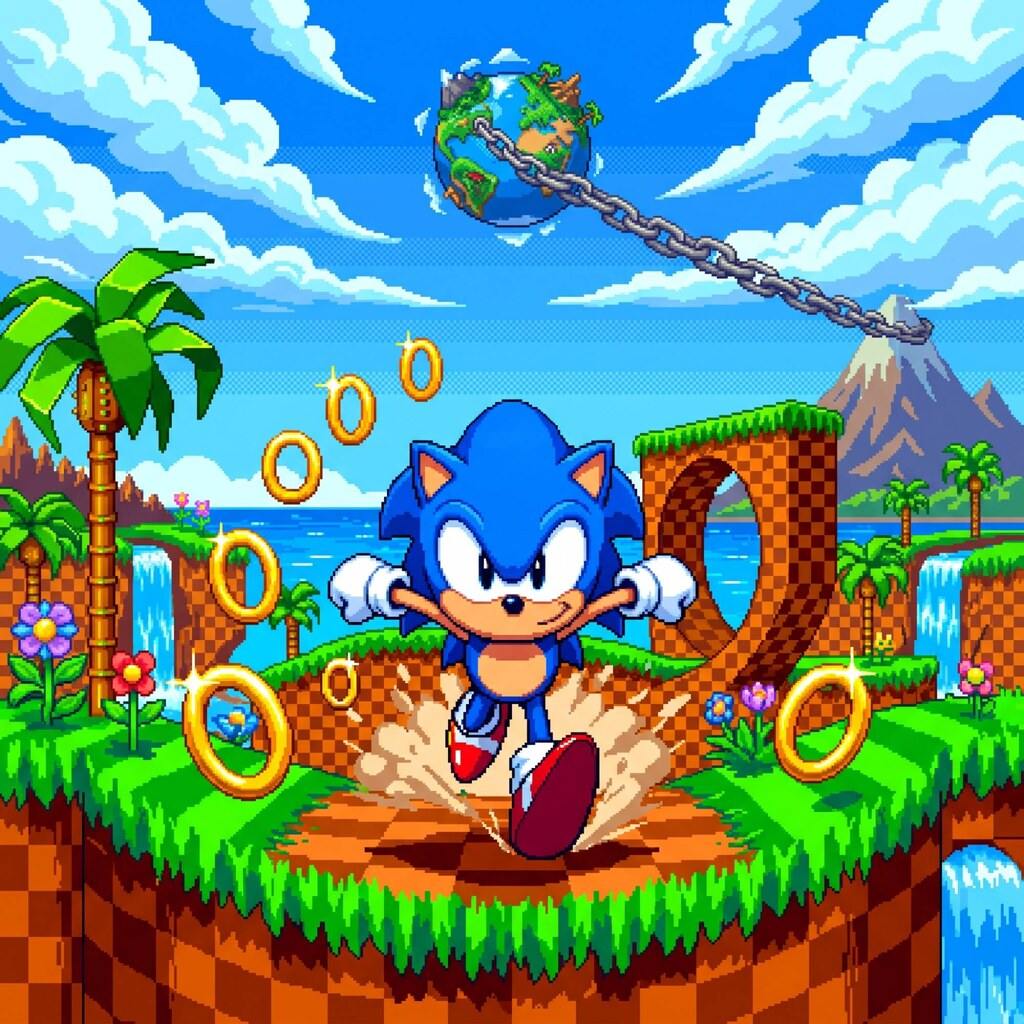
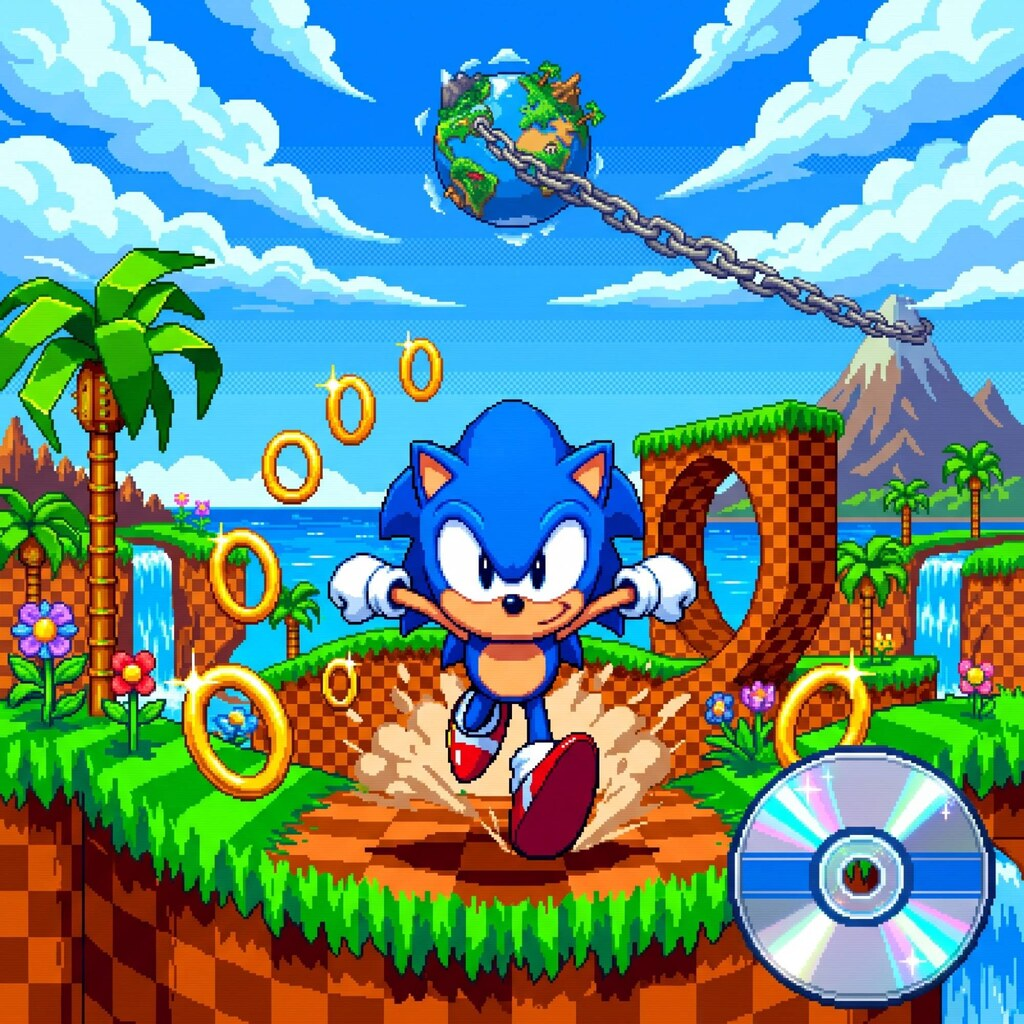
Catalog: Sonic CD cover with the disc (#13)
* Catalog: clean pixel-art covers for the four Sonics

Claude-Session: https://claude.ai/code/session_01DjKc4xMXnL3rLvAdDr7z9a

* Catalog: new Sonic CD and Sonic 2 covers

Claude-Session: https://claude.ai/code/session_01DjKc4xMXnL3rLvAdDr7z9a

* Catalog: clean Celeste cover

Claude-Session: https://claude.ai/code/session_01DjKc4xMXnL3rLvAdDr7z9a

* Catalog: Sonic CD cover with the disc

Claude-Session: https://claude.ai/code/session_01DjKc4xMXnL3rLvAdDr7z9a

---------

diff --git a/RECORD/2026-11-14.clean-sonic-covers.WIP.md b/RECORD/2026-11-14.clean-sonic-covers.WIP.md
@@ -49,3 +49,11 @@ clean full-bleed one (the climber on a snowy ledge at sunset). Saved as `celeste
 used it). `celeste_bg.png` (the banner background) stays.
 
 Commit: `Catalog: clean Celeste cover`
+
+## 2026-11-14 13:25 — Extension: Sonic CD cover with the disc
+
+The owner sent a new Sonic CD cover (the same daytime scene with the chained planet, plus a CD in
+the lower right corner). Same treatment (1024×1024 JPEG q88, stripped), replacing
+`soniccd_cover.jpg`; the catalog path does not change.
+
+Commit: `Catalog: Sonic CD cover with the disc`
